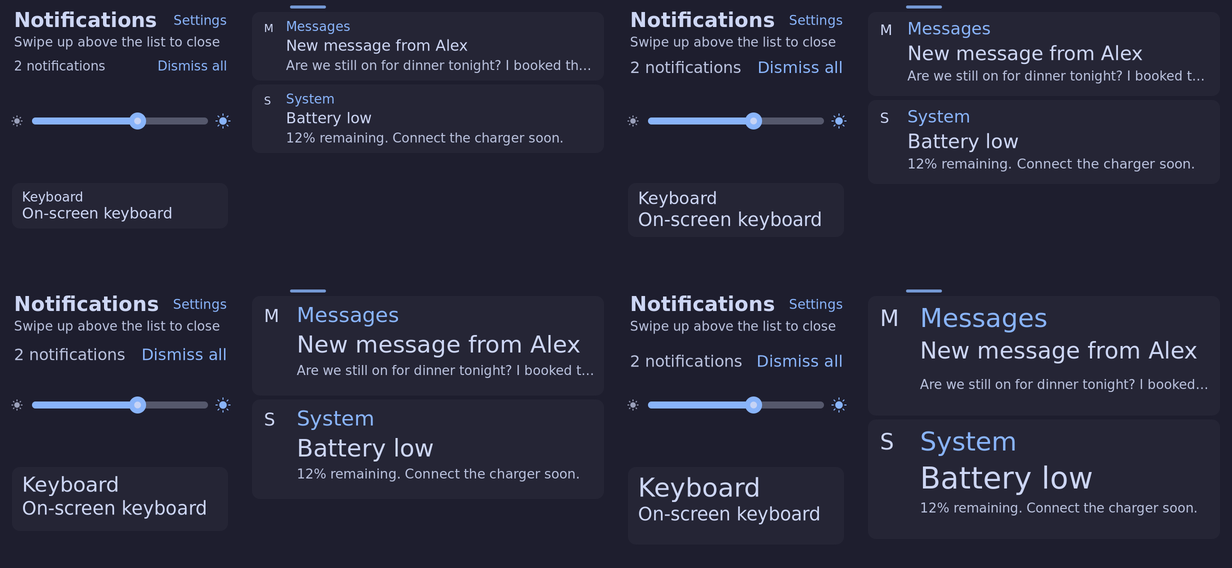
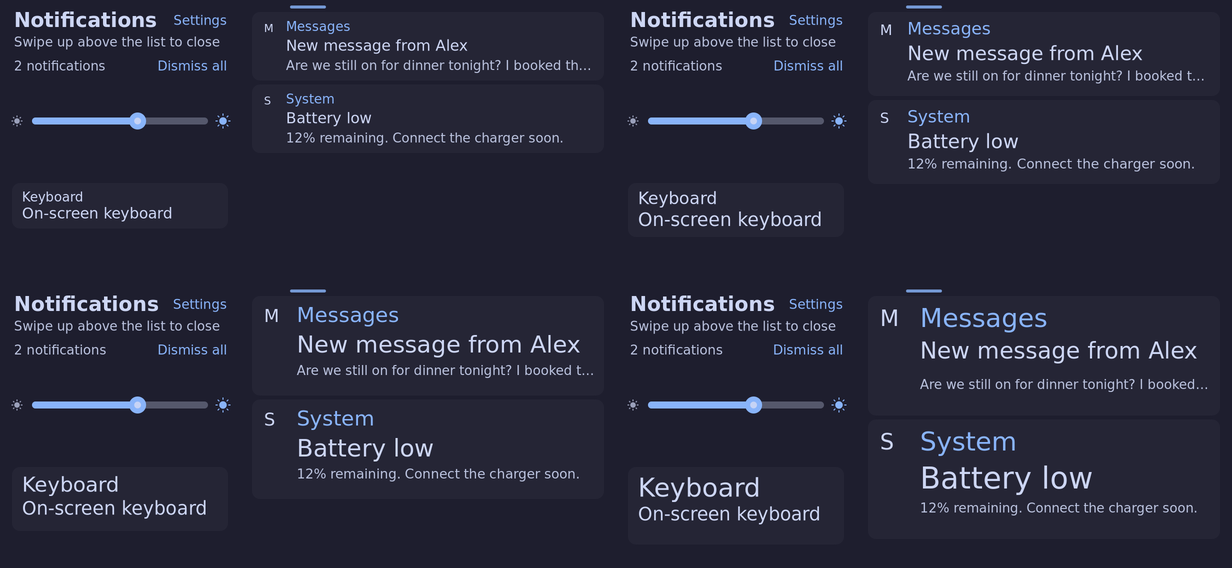
Shade header rows keep their ratio to the Title, the hint drops out instead of being cut off, the empty state is a Caption; shorter Keyboard gesture hint that fits the 26 px column
Board, HDMI 1280x800 at 160% (roles2 deploy): the narrow controls column
shrank the Title but left "0 notifications" at full Label size, the hint
ellipsized beside the battery, and the Settings Keyboard hint was cut off
at the floor. Host renders refreshed.

diff --git a/nix/rust-shell-client/src/render.rs b/nix/rust-shell-client/src/render.rs
@@ -2761,12 +2761,12 @@ fn paint_drawer_chrome(
 /// must to sit beside the Settings link, and the hint, count and "Dismiss
 /// all" lines stack by their drawn height, so nothing overlaps or
 /// ellipsizes. Each link stays inside its `service_ui::shade_link_w` band.
-/// The Shade's empty-state tile: one Body line, or the preview's source
+/// The Shade's empty-state tile: one Caption line, or the preview's source
 /// (Label) and summary (Body), inside `SHADE_TILE_INSET` above and below.
 const SHADE_TILE_INSET: f64 = 11.0;
 
 fn shade_preview_tile_h(preview: bool) -> f64 {
-    let lines = if preview { vision_line(TYPE_LABEL) + vision_line(TYPE_BODY) } else { vision_line(TYPE_BODY) };
+    let lines = if preview { vision_line(TYPE_LABEL) + vision_line(TYPE_BODY) } else { vision_line(TYPE_CAPTION) };
     (lines + 2.0 * SHADE_TILE_INSET).ceil().max(72.0)
 }
 
@@ -2809,12 +2809,17 @@ fn paint_shade_header(
     let settings_y = title_y + (title_h - line(settings_size)) / 2.0;
     text(cr, "Settings", hw - 24.0 - settings_w, settings_y, settings_w, settings_size, style.accent);
 
+    // The rows under the Title keep their ratio to it: when a narrow
+    // column shrinks the Title, they shrink with it (to the Label floor).
+    let header_k = title_size / TYPE_TITLE;
+    let label = (TYPE_LABEL * header_k).max(TYPE_LABEL / scale).min(TYPE_LABEL);
+    let caption = (TYPE_CAPTION * header_k).max(TYPE_CAPTION / scale).min(TYPE_CAPTION);
     let count_label = if count == 1 { "1 notification".to_string() } else { format!("{count} notifications") };
     let (count_size, dismiss_size, dismiss_w) = if count > 0 {
-        share((&count_label, TYPE_LABEL, pango::Weight::Normal), ("Dismiss all", TYPE_LABEL), row_room, link_room)
+        share((&count_label, label, pango::Weight::Normal), ("Dismiss all", label), row_room, link_room)
     } else {
-        let (size, _, _) = share((&count_label, TYPE_LABEL, pango::Weight::Normal), ("", TYPE_LABEL), hw - 56.0, link_room);
-        (size, TYPE_LABEL, 0.0)
+        let (size, _, _) = share((&count_label, label, pango::Weight::Normal), ("", label), hw - 56.0, link_room);
+        (size, label, 0.0)
     };
     let count_h = line(count_size).max(line(dismiss_size));
 
@@ -2830,10 +2835,12 @@ fn paint_shade_header(
         let fitted = if advance > room * 0.96 { size * room * 0.96 / advance } else { size };
         fitted.max(TYPE_CAPTION / scale)
     };
-    let battery_size = battery.as_deref().map_or(TYPE_CAPTION, |label| fit(label, TYPE_CAPTION, (hw - 56.0) * 0.5));
+    let battery_size = battery.as_deref().map_or(caption, |label| fit(label, caption, (hw - 56.0) * 0.5));
     let battery_w = battery.as_deref().map_or(0.0, |label| text_advance(cr, label, battery_size, pango::Weight::Normal) + 2.0);
     let hint_room = hw - 56.0 - if battery.is_some() { battery_w + 12.0 } else { 0.0 };
-    let hint_size = fit(hint, TYPE_CAPTION, hint_room);
+    let hint_size = fit(hint, caption, hint_room);
+    // The hint is left out rather than cut off; the battery stays.
+    let hint_whole = text_advance(cr, hint, hint_size, pango::Weight::Normal) <= hint_room;
     let hint_h = line(hint_size).max(line(battery_size));
     let band_bottom = SHADE_DISMISS_BOTTOM - 4.0;
     let count_top = SHADE_SETTINGS_BOTTOM + 4.0;
@@ -2841,7 +2848,9 @@ fn paint_shade_header(
         if let Some(label) = &battery {
             text(cr, label, hw - 24.0 - battery_w, hint_y, battery_w, battery_size, style.text);
         }
-        text(cr, hint, 28.0, hint_y, hint_room, hint_size, style.muted);
+        if hint_whole {
+            text(cr, hint, 28.0, hint_y, hint_room, hint_size, style.muted);
+        }
         (hint_y + hint_h + 2.0).max(count_top)
     } else {
         (title_y + title_h + 2.0).max(count_top)
@@ -3253,8 +3262,8 @@ fn scene(
                     } else {
                         "No new notifications"
                     };
-                    let y = 262.0 + (tile_h - vision_line(TYPE_BODY)) / 2.0;
-                    themed_role_fit(cr, theme, "body", empty, 42.0, y, w - 84.0, TYPE_BODY, style.muted, pango::Weight::Normal);
+                    let y = 262.0 + (tile_h - vision_line(TYPE_CAPTION)) / 2.0;
+                    themed_role_fit(cr, theme, "caption", empty, 42.0, y, w - 84.0, TYPE_CAPTION, style.muted, pango::Weight::Normal);
                 }
             }
             let _ = cr.restore();
@@ -3445,8 +3454,8 @@ fn scene(
                     themed_role_fit(cr, theme, "body", &control_text(control), row_text_x, y + value_dy, row_text_width, TYPE_BODY, style.text, pango::Weight::Normal);
                     if name == "Keyboard" && services.is_some_and(|view| view.keyboard_gesture_hint)
                     {
-                        themed_role_fit(cr, theme, "caption", "Two fingers up at bottom to show;", row_text_x, y + caption_dy, row_text_width, TYPE_CAPTION, style.muted, pango::Weight::Normal);
-                        themed_role_fit(cr, theme, "caption", "drag the handle down to hide.", row_text_x, y + caption_dy + vision_line(TYPE_CAPTION), row_text_width, TYPE_CAPTION, style.muted, pango::Weight::Normal);
+                        themed_role_fit(cr, theme, "caption", "Two fingers up: show", row_text_x, y + caption_dy, row_text_width, TYPE_CAPTION, style.muted, pango::Weight::Normal);
+                        themed_role_fit(cr, theme, "caption", "Drag handle down: hide", row_text_x, y + caption_dy + vision_line(TYPE_CAPTION), row_text_width, TYPE_CAPTION, style.muted, pango::Weight::Normal);
                     } else if let Some(detail) = &control.detail {
                         themed_role_fit(cr, theme, "caption", detail, row_text_x, y + caption_dy, row_text_width, TYPE_CAPTION, style.muted, pango::Weight::Normal);
                     }

diff --git a/docs/blob-inventory.md b/docs/blob-inventory.md
@@ -1731,8 +1731,8 @@ DATA c0f4155dee9e0a9f65f2db9aa231e9d8e481563d5ff3ff1f0ba46466081d59f0 docs/evide
 DATA 0e4ea4bbd724e66ca03867a762bc00b24f67c3504dfe9f6703719401edae85d0 docs/evidence/the-shell-is-navigable-with-a-mouse/edge-controls-board/search-q.jpg
 DATA 1afbe66898b6e3e1d236a3d4d9aa10021e3c40ffeb4ebcc11dda7e540e7c3e1e docs/evidence/type-roles/host-settings-landscape-steps.png
 DATA fee1891f2f96bd4e4291c8e32d675cfb5ff1e61591679489d61188d537be3800 docs/evidence/type-roles/host-settings-portrait-steps.png
-DATA aad324164611cc4720bd0568f561ec1ed28e07b8a86fcd85716f63b48c8fa1cf docs/evidence/type-roles/host-shade-landscape-steps.png
-DATA a8cfee38cca7c4a6999b943b258280ec82d6909747ec30f22190b21d9f4f0ccd docs/evidence/type-roles/host-shade-portrait-steps.png
+DATA 6537a53dbe93d30db9eb3f196c4b0402a823de793f9495703e3a006ecd090193 docs/evidence/type-roles/host-shade-landscape-steps.png
+DATA 91219b4a683ef259842b3a97054c3f5fea5d1f038ba8b0afc3c349c42abc93f6 docs/evidence/type-roles/host-shade-portrait-steps.png
 DATA ae5a5b24de9f4ac3fa96d6ad528df09ad30eb4975e70abb87fa5c744423c6020 docs/evidence/type-roles/host-vision-landscape-steps.png
 DATA b9d91f77f6185d650801e5f003338c68ccebdca3d481f88a80e734bcb527d8b8 docs/evidence/type-roles/host-vision-portrait-steps.png
 DATA bbdbcdff21dbf352505f6ec56ab00748083cc520c875b22a8996f954e50c3786 docs/evidence/files-app/board-2026-09-30/portfolio.jpg
@@ -3380,8 +3380,8 @@ hashes and the exact triggers are in `docs/evidence/recovery-routes/touch-captur
[10 lines of base64/hex data omitted]
